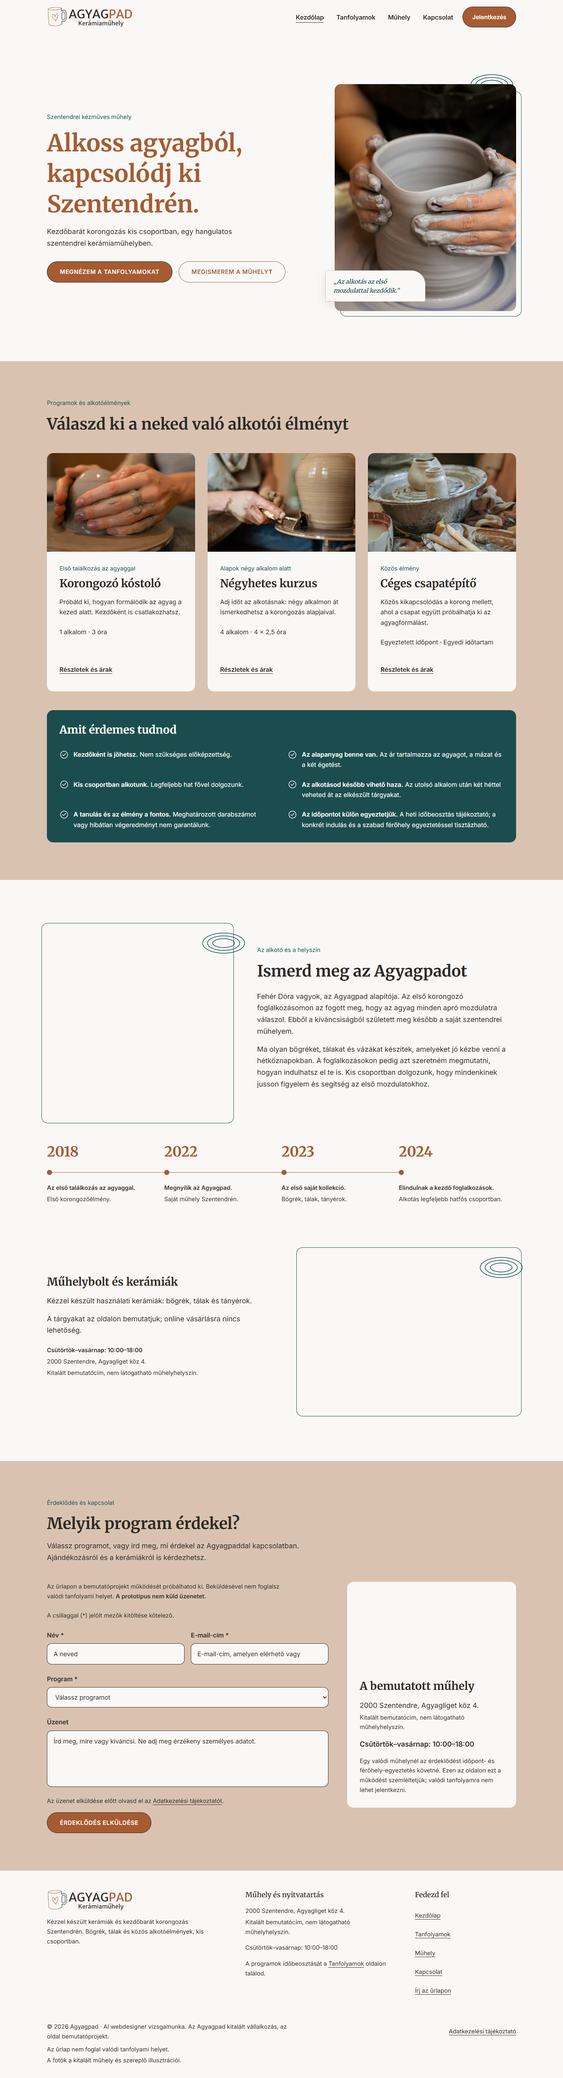
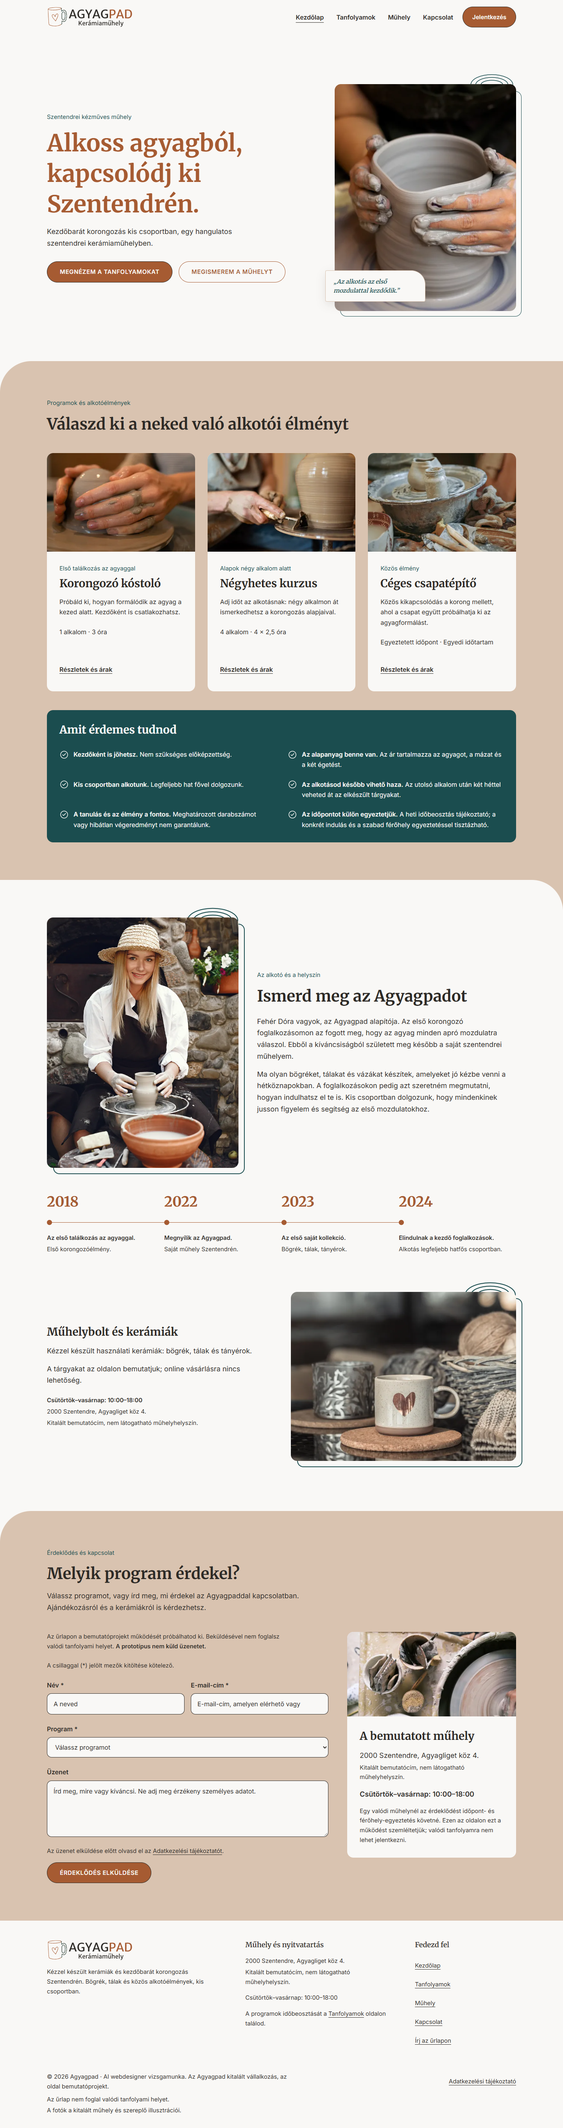
Refine alternating section corners, Dora portrait and photo motifs

diff --git a/koncepcio-1-udvari-muhely.html b/koncepcio-1-udvari-muhely.html
@@ -72,10 +72,10 @@
             <p>Fehér Dóra vagyok, az Agyagpad alapítója. Az első korongozó foglalkozásomon az fogott meg, hogy az agyag minden apró mozdulatra válaszol. Ebből a kíváncsiságból született meg később a saját szentendrei műhelyem.</p>
             <p>Ma olyan bögréket, tálakat és vázákat készítek, amelyeket jó kézbe venni a hétköznapokban. A foglalkozásokon pedig azt szeretném megmutatni, hogyan indulhatsz el te is. Kis csoportban dolgozunk, hogy mindenkinek jusson figyelem és segítség az első mozdulatokhoz.</p>
           </div>
-          <figure class="photo-surround"><svg class="pottery-lines" viewBox="0 0 120 80" fill="none" stroke="currentColor" stroke-width="1.5" aria-hidden="true" focusable="false"><ellipse cx="60" cy="40" rx="52" ry="25"/><ellipse cx="60" cy="40" rx="40" ry="18"/><ellipse cx="60" cy="40" rx="27" ry="11"/></svg><img class="photo story-photo" src="images/webp/hero1-800.webp"
-              srcset="images/webp/hero1-480.webp 480w, images/webp/hero1-800.webp 800w, images/webp/hero1-1200.webp 1200w, images/webp/hero1-1600.webp 1600w"
-              sizes="(max-width: 767px) calc(100vw - 40px), (max-width: 1296px) 40vw, 490px" width="4784" height="3193" loading="lazy" decoding="async"
-              alt="A szalmakalapos alkotó agyagedényt formáz az udvari korongnál."></figure>
+          <figure class="photo-surround"><svg class="pottery-lines" viewBox="0 0 120 80" fill="none" stroke="currentColor" stroke-width="1.5" aria-hidden="true" focusable="false"><ellipse cx="60" cy="40" rx="52" ry="25"/><ellipse cx="60" cy="40" rx="40" ry="18"/><ellipse cx="60" cy="40" rx="27" ry="11"/></svg><img class="photo story-photo" src="images/webp/hero-800.webp"
+              srcset="images/webp/hero-480.webp 480w, images/webp/hero-800.webp 800w, images/webp/hero-1200.webp 1200w, images/webp/hero-1600.webp 1600w"
+              sizes="(max-width: 767px) calc(100vw - 40px), (max-width: 1296px) 40vw, 490px" width="3193" height="4784" loading="lazy" decoding="async"
+              alt="Szalmakalapos keramikus portréja az udvari műhelyben, kezében a korongon készülő agyagedénnyel."></figure>
         </div>
         <ol class="timeline" aria-label="Fehér Dóra és az Agyagpad történetének mérföldkövei"><li><time datetime="2018">2018</time><span class="timeline-marker" aria-hidden="true"></span><div class="timeline-copy"><strong>Az első találkozás az agyaggal.</strong><p>Első korongozóélmény.</p></div></li>
 <li><time datetime="2022">2022</time><span class="timeline-marker" aria-hidden="true"></span><div class="timeline-copy"><strong>Megnyílik az Agyagpad.</strong><p>Saját műhely Szentendrén.</p></div></li>

diff --git a/assets/udvari-muhely.css b/assets/udvari-muhely.css
@@ -139,3 +139,14 @@ p,.detail-link,.button,.notes-grid li,figcaption{overflow-wrap:anywhere}
 .hero .portrait-caption::before{content:none}
 .hero .photo-surround::before{inset:18px -14px -14px 14px}
 @media(max-width:47.999rem){.hero .portrait-caption{left:1rem;bottom:1rem;padding:.875rem 1rem}.hero .photo-surround::before{inset:14px -6px -10px 12px}}
+/* A szakaszfelületek sarka váltakozva balra és jobbra lágyul. */
+#tanfolyamok,#muhely,#kapcsolat{position:relative;isolation:isolate;--chapter-corner:clamp(2rem,6vw,5rem)}
+#tanfolyamok,#kapcsolat{background:var(--paper)}
+#muhely{background:var(--sand)}
+#tanfolyamok::before,#muhely::before,#kapcsolat::before{content:'';position:absolute;inset:0;z-index:-1;pointer-events:none}
+#tanfolyamok::before,#kapcsolat::before{background:var(--sand);border-top-left-radius:var(--chapter-corner)}
+#muhely::before{background:var(--paper);border-top-right-radius:var(--chapter-corner)}
+.story-photo{aspect-ratio:3/4;max-height:40rem;object-position:50% 35%}
+.story .photo-surround::before,.shop .photo-surround::before{inset:16px -16px -16px 16px;border-width:2px}
+.story .pottery-lines,.shop .pottery-lines{top:-42px;right:-8px;width:148px;height:99px;stroke-width:1.75}
+@media(max-width:47.999rem){.story .photo-surround::before,.shop .photo-surround::before{inset:12px -8px -10px 10px}.story .pottery-lines,.shop .pottery-lines{top:-30px;right:0;width:112px;height:75px}}

diff --git a/ellenorzes/eredmenyek.md b/ellenorzes/eredmenyek.md
@@ -1,10 +1,10 @@
-# Agyagpad – a megtartott változat ellenőrzése
+# Agyagpad – az aktuális változat ellenőrzése
 
-Frissítve: 2026. november 11. Weboldalalap: 16527e0; visszaállító helyi commit: 6125a95. A jelentés a dokumentációfrissítéskor újraellenőrzött állapotot írja le. A régi napló másolata: ../archivum/dokumentacio-2026-11-11-korabbi/eredmenyek.md.
+Frissítve: 2026. november 12. Kiinduló weboldalalap: 16527e0. Az aktuális továbbfejlesztés váltakozó szakaszsarkokat, a csatolt portrét és hangsúlyosabb képmotívumokat tartalmaz. A főoldal hét futását november 12-én újra elvégeztük; a fejléc harminc próbájának jelentése november 11-i, a fejléc ebben a körben nem változott. A régi napló másolata: ../archivum/dokumentacio-2026-11-11-korabbi/eredmenyek.md.
 
 ## Főoldal
 
-A fooldal-ellenorzes.cjs mind a hét futása sikeres: 320, 390, 768, 1024 és 1440 px; továbbá 390 és 1440 px 200%-os szövegmérettel. A gépi eredmény: fo-ellenorzes.json, a megtartott megjelenési commit azonosítójával.
+A fooldal-ellenorzes.cjs mind a hét futása sikeres: 320, 390, 768, 1024 és 1440 px; továbbá 390 és 1440 px 200%-os szövegmérettel. A gépi eredmény: fo-ellenorzes.json, a kiinduló commit és az aktuális designrevízió azonosítójával.
 
 Ellenőrizve: vízszintes túlcsordulás, betöltött képek, JavaScript és erőforráshibák, címsorszínek, normál kickerek, ár nélküli főoldali kártyák, működő részletlink-célok, változatlan idővonali évszámok és elrendezés, egyetlen műhelyboltfotó, türkiz tudnivalóblokk törtfehér elemekkel és a kártyákhoz igazodó szélességgel. A mobilmenü és Escape, a billentyűzetes ugrólink, az űrlap helyi visszajelzése és a POST-kérés nélküli működés is sikeres.
 
@@ -24,7 +24,7 @@ Ellenőrzött a Jelentkezés CTA, a főoldali űrlap elérése az aloldalakról 
 - Műhelybolt: asztalon szöveg balra, fotó jobbra; mobilon szöveg után fotó.
 - A tudnivalóblokk a három programkártya alatt marad.
 
-A frissen generált mobil- és asztali felvételek a kepernyokepek/ mappa gyökerében és a ../beadas/jelenlegi-oldal/ mappában vannak. A megtekintett asztali hero a megtartott kártyát, külön motívumokat és normál gombfeliratot mutatja. A régi kísérleti képek a kepernyokepek/korabbi-valtozatok-2026-11-11/ almappában vannak, történeti anyagként.
+A november 12-én frissen generált mobil- és asztali felvételek a kepernyokepek/ mappa gyökerében és a ../beadas/jelenlegi-oldal/ mappában vannak. A megtekintett asztali hero a megtartott kártyát, külön motívumokat és normál gombfeliratot mutatja. A régi kísérleti képek a kepernyokepek/korabbi-valtozatok-2026-11-11/ almappában vannak, történeti anyagként.
 
 ## Kontrasztok
 
@@ -35,3 +35,13 @@ A fo-kontrasztok.json a meglévő hat UI-színt és a mért színpárokat tartal
 A kötelező és ajánlott tételek állapota: ../beadas/README.md. A tervezési képek megvannak, az AI-leírás az eddigi munkát röviden összefoglalja. Élő webcím és publikálás még nincs; a jelenlegi űrlap helyi bemutató. Saját domain, mérés, valódi üzenetküldés és esettanulmány ajánlott extrák, nem kötelező teljesítési feltételek.
 
 Az eredeti brief, a korábbi szakaszterv és az arculati képek a folyamat előzményeit őrzik. A követendő dokumentumok: ../tervezes/agyagpad-projektbrief.md, design-system.md, szovegek.md, aktualis-oldalterkep.md. Az utóbbi három fájl is a tervezes mappában található.
+
+## November 12-i designfinomítás és tartalmi észrevétel
+
+A Tanfolyamok és Kapcsolat szakasz bal felső, a Műhely jobb felső sarkán reszponzív, 32–80 px közötti lekerekítés van. Az új felületi hátterek a meglévő paper és sand tokenekből állnak; a tartalmat és a fókuszt nem vágják le.
+
+A bemutatkozó kép a felhasználó által csatolt hero.jpg (3193 × 4784 px) meglévő, 480/800/1200/1600 px-es WebP-készletét használja. A 800 px-es változat 98 298 bájt a 7 155 353 bájtos JPG helyett. A portré 3:4 képkivágást kapott; az arc, a kezek és az edény is látható. A bemutatkozó és műhelybolti fotó 2 px-es türkiz kerete mögül a jobb felső részen három finom gyűrű látszik ki, 1,75 px vonallal. Asztalon 148 × 99, mobilon 112 × 75 px a motívum.
+
+Mind a hét futás ellenőrzi a váltakozó sarkokat, a felületszíneket, az új portréforrást és a két megerősített motívum méretezését, helyét és látható vonalvastagságát. Mobilon és 200%-os szöveggel nincs vízszintes túlcsordulás. A teljes műhelyszakasz új felvételén a késleltetett képek dekódolását is megvártuk.
+
+A kerámiák többféle tárggyal való bemutatása a saját brief vállalása. Az általános vizsgakiírás nem követel külön kerámiagalériát. Jelenleg a műhelybolt kész bögréket mutat; a tálak/tányérok/vázák képi bemutatása még kiegészítendő, vagy a szöveges ígéret pontosítandó. Új galériát ebben a körben nem adtunk hozzá.

diff --git a/tervezes/design-system.md b/tervezes/design-system.md
@@ -1,7 +1,7 @@
 # Agyagpad – design system
 
-Verzió: 4.3 · 2026. november 11.
-Állapot: a megtartott 16527e0 Udvari műhely főoldalának aktuális specifikációja. Dokumentációegyeztetés, az oldal megjelenésének módosítása nélkül. A korábbi türkiz gombos irányt ez a dokumentum felülírja.
+Verzió: 4.4 · 2026. november 12.
+Állapot: az Udvari műhely aktuális specifikációja. Kiindulás: a jóváhagyott 16527e0 változat; november 12-i továbbfejlesztés szakaszlekerekítésekkel, portrécserével és hangsúlyosabb fotómotívumokkal. A korábbi türkiz gombos irányt ez a dokumentum felülírja.
 
 ## Források és hatókör
 
@@ -116,9 +116,9 @@ Közvetlenül a három programkártya alatt, a tanfolyamos szakasz közös tarta
 - Átlátszó logó: images/logo/Agyagpad-logo-transparent.svg; PNG-párja ugyanott. Nincs külön doboz, keret vagy színezett háttér.
 - Tartalmi fotók: images/webp, reszponzív srcset/sizes, 16 px lekerekítés, helyes méretattribútumok és tartalomhoz illő alt.
 - A hero képaláírása idézőjeles és dőlt: „Az alkotás az első mozdulattal kezdődik.” A fotó bal alsó részére helyezett törtfehér kártyán jelenik meg, 15 px-es türkiz Merriweather szöveggel, bevezető díszvonal nélkül, homokszínű kerettel, 4/36/4/4 px-es aszimmetrikus lekerekítéssel és a meglévő grafit 10%-os átlátszóságából képzett finom árnyékkal. Mobilon a kártya a fotó szélein belül marad.
-- Hero: agyagpad-hero.jpg alapján optimalizált agyagpad-hero WebP, agyagedényt formáló kezek; 480, 800, 1200 és 1600 px széles változatok. A bemutatkozásban másik, munka közbeni kép, hero1; a hangsúlyos portré nem ismétlődik.
+- Hero: agyagpad-hero.jpg alapján optimalizált agyagpad-hero WebP, agyagedényt formáló kezek; 480, 800, 1200 és 1600 px széles változatok. A bemutatkozásban a csatolt hero.jpg álló portréjának hero WebP-készlete, 3:4 képkivágással, 50% 35% fókuszponttal; a hangsúlyos portré nem ismétlődik.
 - A főoldali műhelyboltnál egyetlen fotó marad: muhelybolt (kész bögrék), 4:3 képaránnyal. A korábbi második, vázás kép lekerült; az eredeti fájlt megőrizzük. A tárgyak bemutatásáról szóló második mondat külön bekezdés.
-- Kevés, türkiz eltolt képkeret és koronggyűrű-vonalgrafika, 1,5 px-es keretvonallal. A bemutatkozó és a műhelybolti fotó jobb oldalán is visszafogott koronggyűrűk látszanak. Nincs botanikai minta, erős háttértextúra vagy folyamatos animáció.
+- Kevés, türkiz eltolt képkeret és koronggyűrű-vonalgrafika. A hero keretvonala 1,5 px; a bemutatkozó és műhelybolti képé 2 px, 16 px-es asztali és 8 px-es mobilos jobb oldali eltolással. A két kép jobb felső részén a fotó mögül három gyűrű látszik ki: asztalon 148 × 99 px, mobilon 112 × 75 px, 1,75 px-es vonallal. Nincs botanikai minta, erős háttértextúra vagy folyamatos animáció.
 - A nyitókép eager, a lejjebb lévő képek lazy betöltésűek; eredeti fotók megőrizve.
 
 ## Közös tájékoztatás
@@ -136,3 +136,7 @@ Az éles űrlap, adatkezelési tájékoztató, tételes képkreditek, végleges 
 Favicon: images/logo/Agyagpad-favicon-transparent.svg, 256 px-es átlátszó PNG-tartalékkal; a korábbi WebP ikon is átlátszó változatra frissült. Az eredeti háttérrel rendelkező forrásfájlok megmaradnak, az oldal a háttér nélküli változatokat használja.
 
 A műhelybolt blokk tartalmi és vizuális sorrendje szöveg, majd fotó: asztalon szöveg balra, fotó jobbra; mobilon szöveg felül és fotó alatta. A kép jobb oldali türkiz kerete és koronggyűrűi megmaradnak.
+
+## November 12-i szakaszritmus
+
+A Tanfolyamok szakasz bal felső, a Műhely szakasz jobb felső, a Kapcsolat szakasz bal felső sarka lekerekített. A sugár clamp(2rem, 6vw, 5rem), normál asztalon legfeljebb 80 px. A meglévő törtfehér és homok színek rétegzett szakaszhátterei teszik láthatóvá a sarkokat. Nincs új szín, és a szakaszok nem vágják le a képmotívumokat vagy a fókuszjelzéseket.

diff --git a/README.md b/README.md
@@ -80,7 +80,7 @@ Az `eszkozok/helyi-szerver.cjs` opcionális helyi előnézetet indít (`node esz
 Beadási határidő: 2026. november 24. A kiírás szerint kérhető haladékkal december 1.
 
 
-A kiválasztott változat aktuális megjelenési forrása assets/udvari-muhely.css, dokumentációja tervezes/design-system.md 4.3 és tervezes/szovegek.md 2.4. Az aktuális hét futásos ellenőrzés: ellenorzes/fo-ellenorzes.json; kontrasztok: ellenorzes/fo-kontrasztok.json. Öt normál nézetszélesség és két 200%-os szövegméret-próba sikeres. A régebbi koncepcióellenőrzések történeti anyagok, a főoldal aktuális elrendezését a fooldal-ellenorzes.cjs ellenőrzi.
+A kiválasztott változat aktuális megjelenési forrása assets/udvari-muhely.css, dokumentációja tervezes/design-system.md 4.4 és tervezes/szovegek.md 2.4. Az aktuális hét futásos ellenőrzés: ellenorzes/fo-ellenorzes.json; kontrasztok: ellenorzes/fo-kontrasztok.json. Öt normál nézetszélesség és két 200%-os szövegméret-próba sikeres. A régebbi koncepcióellenőrzések történeti anyagok, a főoldal aktuális elrendezését a fooldal-ellenorzes.cjs ellenőrzi.
 
 Az archivum/udvari-muhely-turkiz-migracio.cjs egyszeri átalakítási segédlet, nem aktuális buildparancs. A kész HTML- és CSS-fájlokat kell tovább szerkeszteni; a migrációt nem kell újrafuttatni.
 
@@ -88,7 +88,7 @@ Az archivum/udvari-muhely-turkiz-migracio.cjs egyszeri átalakítási segédlet,
 
 ## Megtartott verzió és beadási dokumentáció
 
-A honlap megjelenési alapja az utoljára jóváhagyott 16527e0. A későbbi összefonódó és lefelé vezetett spirálos motívumkísérleteket visszavontuk; a HTML, CSS és a webes assetek megtartott állapota az irányadó. A dokumentáció erre az állapotra frissült, a weboldal újratervezése nélkül. A fejléc CTA „Jelentkezés”, csak kezdő nagybetűvel.
+A honlap kiindulási alapja a jóváhagyott 16527e0, amelyet november 12-én váltakozó szakaszsarkokkal, Dóra csatolt portréjával és erősebb fotómotívumokkal finomítottunk. A későbbi összefonódó és lefelé vezetett spirálos motívumkísérleteket visszavontuk; a HTML, CSS és a webes assetek megtartott állapota az irányadó. A dokumentáció és a friss felvételek a november 12-i továbbfejlesztést követik. A fejléc CTA „Jelentkezés”, csak kezdő nagybetűvel.
 
 A beadási csomag és a kötelező/ajánlott tételek szétválasztása: [beadas/README.md](beadas/README.md). Itt található az AI-leírás, az eredeti tervezési képek másolata, az aktuális oldaltérkép és a visszaállított oldal friss képernyőképei. A csomag élő URL hiányában még nem végleges beadás.
 

diff --git a/tervezes/aktualis-oldalterkep.md b/tervezes/aktualis-oldalterkep.md
@@ -1,6 +1,6 @@
 # Agyagpad – aktuális oldaltérkép és szekciószerkezet
 
-Frissítve: 2026. november 11. Alap: a megtartott `16527e0` weboldalváltozat.
+Frissítve: 2026. november 12. Kiindulás: a megtartott `16527e0`, azóta szakaszlekerekítéssel, portrécserével és erősebb képdekorációval finomítva.
 
 ## Belépési pontok
 
@@ -42,7 +42,7 @@ Közvetlenül alattuk azonos teljes szélességgel az „Amit érdemes tudnod”
 
 ### 3. Műhely és alkotó – `#muhely`
 
-Fehér Dóra munka közbeni képe és bemutatkozása: asztalon kép balra, szöveg jobbra. A bemutatkozásban bögrék, tálak és vázák szerepelnek. Ezután a 2018, 2022, 2023 és 2024 állomású idővonal következik: asztalon vízszintesen, szűk helyen függőlegesen.
+Fehér Dóra csatolt hero.jpg portréjának WebP-változata és bemutatkozása: asztalon kép balra, szöveg jobbra. A bemutatkozásban bögrék, tálak és vázák szerepelnek. Ezután a 2018, 2022, 2023 és 2024 állomású idővonal következik: asztalon vízszintesen, szűk helyen függőlegesen.
 
 A műhelyboltban asztalon szöveg balra, egyetlen bögrés fotó jobbra kerül; mobilon szöveg után fotó következik. Nyitvatartás: csütörtök–vasárnap 10:00–18:00. Cím: 2000 Szentendre, Agyagliget köz 4., kitalált, nem látogatható bemutatócímként jelölve. Nincs webshop vagy térképes útvonaltervezés.
 
@@ -60,6 +60,10 @@ Márka és rövid bemutatkozás; bemutatócím és nyitvatartás; navigáció; a
 
 - `tervezes/drotvaz/01-oldalterkep.png` és `02-drotvaz.png`: megőrzött eredeti folyamatképek; nem a végleges felület pontos rajzai.
 - `beadas/tervezesi-folyamat/03-aktualis-oldalterkep.png`: az aktuális szerkezet áttekintése.
-- `beadas/jelenlegi-oldal/`: a visszaállított főoldal új mobil- és asztali felvételei.
+- `beadas/jelenlegi-oldal/`: az aktuális továbbfejlesztés új mobil- és asztali felvételei.
 
 A kiírás legalább három oldalt **vagy** szekciót kér; a négy főoldali szekció ezt teljesíti. Az eredeti képek a folyamatot, a friss képernyőképek az eredményt dokumentálják.
+
+A szakaszhátterek felső sarka bal–jobb–bal sorrendben lekerekített. A bemutatkozó és a műhelybolti fotó felső jobb részén hangsúlyosabb, de visszafogott türkiz koronggyűrűk és eltolt keret jelennek meg.
+
+Tartalmi pontosítás: az általános vizsgakiírás nem kér külön kerámiagalériát. A saját brief és a műhelybolt szövege viszont többféle használati kerámiát ígér. Jelenleg egy bögrés fotó mutat kész tárgyakat; tálak, tányérok és vázák változatos bemutatása még kiegészítendő tartalmi feladat.

diff --git a/beadas/AI-hasznalat.md b/beadas/AI-hasznalat.md
@@ -1,12 +1,12 @@
 # AI-használat – Agyagpad kerámiaműhely
 
-Állapot: 2026. november 11., a megtartott `16527e0` oldalváltozat alapján.
+Állapot: 2026. november 12., a `16527e0` alap továbbfejlesztett változata.
 
 **Kiindulás és tervezés.** Az iskolai kerámiaműhely-briefből indultam ki. ChatGPT segítségével pontosítottam a célcsoportot, a programokat, az oldal célját és a tartalmi sorrendet. A kitalált vállalkozás és Fehér Dóra karakterének adatait átnéztem; vásárlói véleményeket és díjakat nem használtam. Oldaltérkép és asztali/mobil drótváz is készült.
 
 **Arculat és szövegek.** Figma arculati táblán rögzítettem a vizuális irányt. Az AI-nak átadtam a briefet, a saját színválasztásomat, a Merriweather–Inter betűpárt, a logót, a fotókat és a korábbi iskolai dokumentumok méret- és komponensmintáit. Ezekből design-system.md és saját weboldalszövegek készültek. A feliratokat, színeket, képsorrendet és megfogalmazásokat több körben módosítottam.
 
-**Építés és finomítás.** Codex segítségével három statikus HTML/CSS-koncepció készült. Az Udvari műhely irányt választottam. Böngészőben adott megjegyzésekkel finomítottam a navigációt, a programkártyákat, az idővonalat, az űrlapot és a fotók elrendezését. A megtartott változatban terrakotta gombok, türkiz kiemelések, átlátszó logó és favicon, valamint a hero fotóján kisebb türkiz idézetkártya szerepel. A később kipróbált spirálos motívumokat elvetettem.
+**Építés és finomítás.** Codex segítségével három statikus HTML/CSS-koncepció készült. Az Udvari műhely irányt választottam. Böngészőben adott megjegyzésekkel finomítottam a navigációt, a programkártyákat, az idővonalat, az űrlapot és a fotók elrendezését. A megtartott változatban terrakotta gombok, türkiz kiemelések, átlátszó logó és favicon, valamint a hero fotóján kisebb türkiz idézetkártya szerepel. A spirálos próbákat elvetettem; később váltakozó szakaszlekerekítést, új portrét és hangsúlyosabb képdekorációt kértem.
 
 **Ellenőrzés és fájlkezelés.** Az AI a Sharp eszközzel többméretű WebP-képeket készített, Playwright és Chrome segítségével pedig mobil-, tablet- és asztali nézeteket, linkeket, billentyűzetes kezelést és 200%-os szövegméretet ellenőrzött. A tartalmi és vizuális döntéseket én hoztam meg. A forráskód Git-verziókövetést kapott és GitHubra került.
 

diff --git a/beadas/README.md b/beadas/README.md
@@ -1,6 +1,6 @@
 # Agyagpad – beadási ellenőrzőlap
 
-Frissítve: 2026. november 11. Megtartott weboldal: `16527e0` (visszaállító helyi commit: `6125a95`). Ez a csomag a fejlesztési állapotot dokumentálja; az élesítés még hátravan.
+Frissítve: 2026. november 12. Kiinduló jóváhagyott weboldal: `16527e0`, aktuális továbbfejlesztés: váltakozó szakaszlekerekítés, portrécsere és erősebb fotómotívumok. Ez a csomag a fejlesztési állapotot dokumentálja; az élesítés még hátravan.
 
 ## A kiírás szerint beadandó három tétel
 
@@ -10,7 +10,7 @@ Frissítve: 2026. november 11. Megtartott weboldal: `16527e0` (visszaállító h
 | Egy vagy több kép a tervezésről | Elkészült | `tervezesi-folyamat/01-eredeti-oldalterkep.png`, `02-eredeti-drotvaz.png`, `03-aktualis-oldalterkep.png` |
 | AI-használat, legfeljebb egy oldal | Elkészült az eddigi munkához | [AI-hasznalat.md](AI-hasznalat.md); élesítés után a publikálási lépéssel frissítendő. |
 
-A két eredeti kép korábbi tervezési állapotot bizonyít, nem az aktuális képernyő pontos másolata. A harmadik kép a megtartott változat szerkezetét foglalja össze. A `jelenlegi-oldal/` képei a visszaállított főoldal új felvételei.
+A két eredeti kép korábbi tervezési állapotot bizonyít, nem az aktuális képernyő pontos másolata. A harmadik kép a megtartott változat szerkezetét foglalja össze. A `jelenlegi-oldal/` képei az aktuális továbbfejlesztés új felvételei.
 
 ## Kötelező feltételek
 
@@ -41,3 +41,5 @@ A két eredeti kép korábbi tervezési állapotot bizonyít, nem az aktuális k
 4. Az AI-leírás utolsó bekezdésének frissítése, az élő URL és a tervezési képek beadása.
 
 Határidő: 2026. november 24.; kérhető haladékkal december 1. Forrás: a felhasználó által megadott vizsgakiírás.
+
+Tartalmi feladat: a saját briefben és a szövegben ígért kerámiaválaszték bemutatása jelenleg egy bögrés termékfotóra támaszkodik. További kész tál-/tányér-/vázafotóval bővítendő, vagy a szöveges ígéret pontosítandó. Ez nem külön, általános vizsgakiírásbeli galériakötelezettség.

diff --git a/ellenorzes/README.md b/ellenorzes/README.md
@@ -1,6 +1,6 @@
 # Ellenőrzési anyagok
 
-Aktuális megjelenési alap: a megtartott `16527e0` változat. A mostani dokumentációfrissítés nem módosította a főoldal HTML- vagy CSS-forrását.
+Kiinduló megjelenési alap: `16527e0`. Aktuális revízió: 2026-11-12-rounded-sections; a főoldal váltakozó szakaszsarkokkal, portrécserével és erősebb motívumokkal finomodott. A főoldaljelentés november 12-i, a változatlan fejléc jelentése november 11-i.
 
 ## Aktuális bizonyítékok
 
